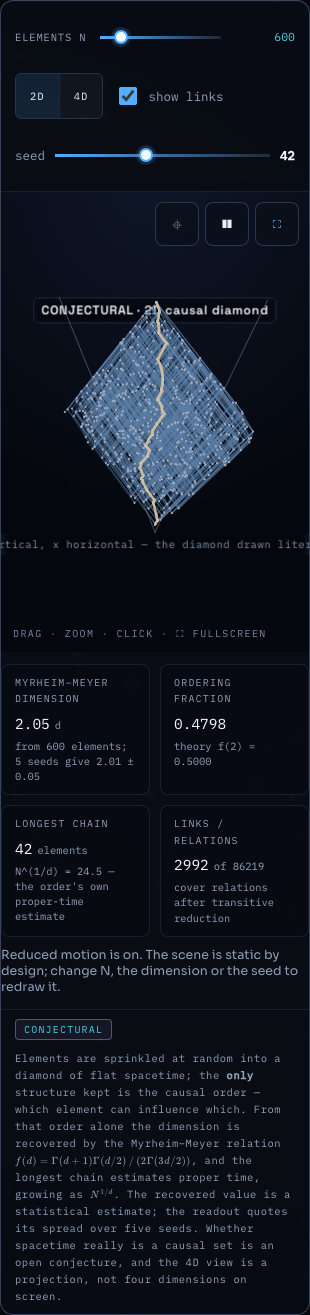
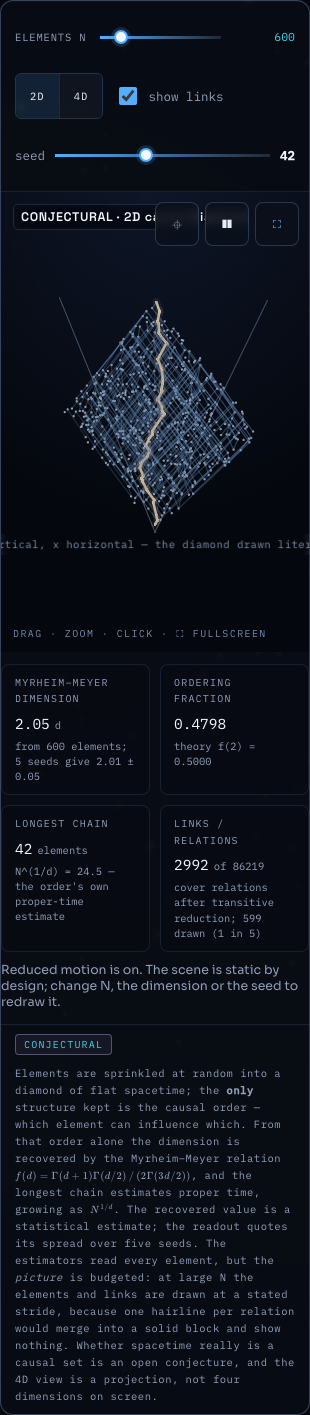
feat(approaches): reveal the causal set, and budget what it draws
The laboratory worked but did not read. At N = 4000 a 2D sprinkle has
more than 27 000 cover relations, and one hairline per relation merged
into a solid blue block — the constellation the figure is about
disappeared. The fix is a drawing budget, disclosed on screen rather
than hidden: the estimators still read every element, while the picture
draws a strided subset and the readout says so ("599 drawn (1 in 5)").

The structure now resolves instead of appearing: elements and links
appear along time with a smoothstep reveal, and the golden chain draws
last. Reduced motion snaps the reveal to complete at build time, so the
animation is never the only way to see the data.

The status label moved from a world position to a DOM chip pinned to the
stage. At 390 px the world label was clipped at the left edge and
collided with the stage controls; the chip cannot be.

diff --git a/js/labs/causal-set-lab.jsx b/js/labs/causal-set-lab.jsx
@@ -17,29 +17,45 @@ function CausalSetLab() {
     const { createCausalSetRuntime } = await window.QGA_LABS.loadCausalSet();
     const runtime = createCausalSetRuntime({ ...state.current, engraved: ctx.engraved });
     ctx.scene.add(runtime.group);
-    // The in-scene label stays short enough to fit a phone viewport; the caption carries the full statement.
-    const dim = state.current.dim;
-    ctx.label(
-      window.matchMedia("(max-width: 640px)").matches
-        ? `CONJECTURAL · ${dim}D causal diamond`
-        : `CONJECTURAL · Poisson sprinkle into a ${dim}D causal diamond — order is the only structure`,
-      () => (window.matchMedia("(max-width: 640px)").matches ? { x: 0, y: 2.1, z: 0 } : { x: -2.6, y: 3.9, z: 1.6 }),
-      "s3d-strong");
+    // The status is DOM pinned to the stage (mountOverlay), not a world position: a world label at the diamond's
+    // corner is clipped on a phone, and it also collides with the stage controls. The caption carries the rest.
+    if (typeof ctx.mountOverlay === "function" && globalThis.document) {
+      const chip = globalThis.document.createElement("div");
+      chip.className = "s3d-label s3d-strong causal-set-status";
+      chip.textContent = `CONJECTURAL · ${state.current.dim}D causal diamond`;
+      ctx.mountOverlay(chip);
+    }
     ctx.label(
       state.current.dim === 2
         ? "t vertical, x horizontal — the diamond drawn literally"
         : "4D projected: time vertical, space through a fixed frame",
       () => (window.matchMedia("(max-width: 640px)").matches ? { x: 0, y: -3.6, z: 0 } : { x: -2.6, y: -3.6, z: 1.6 }),
       "s3d-quiet");
-    // The scene is static (it renders on demand), so the QA hook is written at build time, not in update().
-    window.__qgaCausalSet = runtime.stats();
+    const still = reduced;
+    if (still) {
+      runtime.completeReveal();
+      // The stage calls update(0) before the first frame; nothing may undo the completed reveal.
+      window.__qgaCausalSet = runtime.stats();
+    }
+    let last = 0;
     return {
+      isAnimated: () => !still,
+      update: (t) => {
+        if (still) return;
+        const dt = last ? (t - last) * 1000 : 16;
+        last = t;
+        const running = runtime.tick(dt);
+        // Publish every frame so the QA hook reports what is on screen, not just the settled state.
+        window.__qgaCausalSet = runtime.stats();
+        if (running) ctx.invalidate();
+      },
       dispose: () => { runtime.dispose(); delete window.__qgaCausalSet; },
     };
   };
 
   const mm = run.myrheimMeyer;
   const chainIdeal = Math.pow(n, 1 / dim);
+  const drawn = useMemo(() => ({ ...S.drawableLinks(run), points: S.drawablePoints(run) }), [run]);
   return (
     <div className="viz-frame causal-set-lab" id="approaches-causal-set">
       <div className="viz-toolbar">
@@ -62,10 +78,10 @@ function CausalSetLab() {
           <strong>{seed}</strong>
         </label>
       </div>
-      <Scene3D animated={false} nodeKit height={460}
+      <Scene3D animated="motion" nodeKit height={460}
         aria={`A Poisson sprinkle of ${n} elements into a ${dim}-dimensional causal diamond. Points are the elements, faint lines their causal links, and the golden line the longest chain.`}
         initial={{ radius: 13, theta: 0.42, phi: 1.32, target: [0, 0, 0], minR: 7, maxR: 30 }}
-        build={build} deps={[dim, n, seed, showLinks]}
+        build={build} deps={[dim, n, seed, showLinks, reduced]}
         fallback={<div className="lab-fallback">The constellation view needs WebGL. Every estimator below is still computed.</div>}></Scene3D>
       <div className="readout-grid causal-readouts" aria-live="polite">
         <div className="readout">
@@ -86,7 +102,7 @@ function CausalSetLab() {
         <div className="readout">
           <div className="readout-label">links / relations</div>
           <div className="readout-value">{run.links.length}<span className="unit">of {run.relations}</span></div>
-          <div className="readout-note">cover relations after transitive reduction</div>
+          <div className="readout-note">cover relations after transitive reduction; {drawn.shown} drawn (1 in {drawn.stride})</div>
         </div>
       </div>
       {reduced ? <p className="causal-note">Reduced motion is on. The scene is static by design; change N, the dimension or the seed to redraw it.</p> : null}
@@ -95,8 +111,10 @@ function CausalSetLab() {
         the causal order — which element can influence which. From that order alone the dimension is recovered by the
         Myrheim–Meyer relation <Eq tex="f(d)=\Gamma(d+1)\Gamma(d/2)\,/\,(2\Gamma(3d/2))"></Eq>, and the longest chain
         estimates proper time, growing as <Eq tex="N^{1/d}"></Eq>. The recovered value is a statistical estimate; the
-        readout quotes its spread over five seeds. Whether spacetime really is a causal set is an open conjecture, and
-        the 4D view is a projection, not four dimensions on screen.
+        readout quotes its spread over five seeds. The estimators read every element, but the <em>picture</em> is
+        budgeted: at large N the elements and links are drawn at a stated stride, because one hairline per relation
+        would merge into a solid block and show nothing. Whether spacetime really is a causal set is an open
+        conjecture, and the 4D view is a projection, not four dimensions on screen.
       </VizCaption>
     </div>
   );

diff --git a/styles/modules/causal-set.css b/styles/modules/causal-set.css
@@ -32,3 +32,15 @@
   .causal-set-lab .causal-seed { width: 100%; }
   .causal-readouts { grid-template-columns: 1fr 1fr; }
 }
+/* The status chip is pinned to the stage, clear of the diamond and of the stage controls. */
+.causal-set-status {
+  position: absolute;
+  top: 12px;
+  left: 12px;
+  max-width: calc(100% - 150px);
+  pointer-events: none;
+  z-index: 2;
+}
+@media (max-width: 640px) {
+  .causal-set-status { max-width: calc(100% - 132px); font-size: 10px; }
+}
